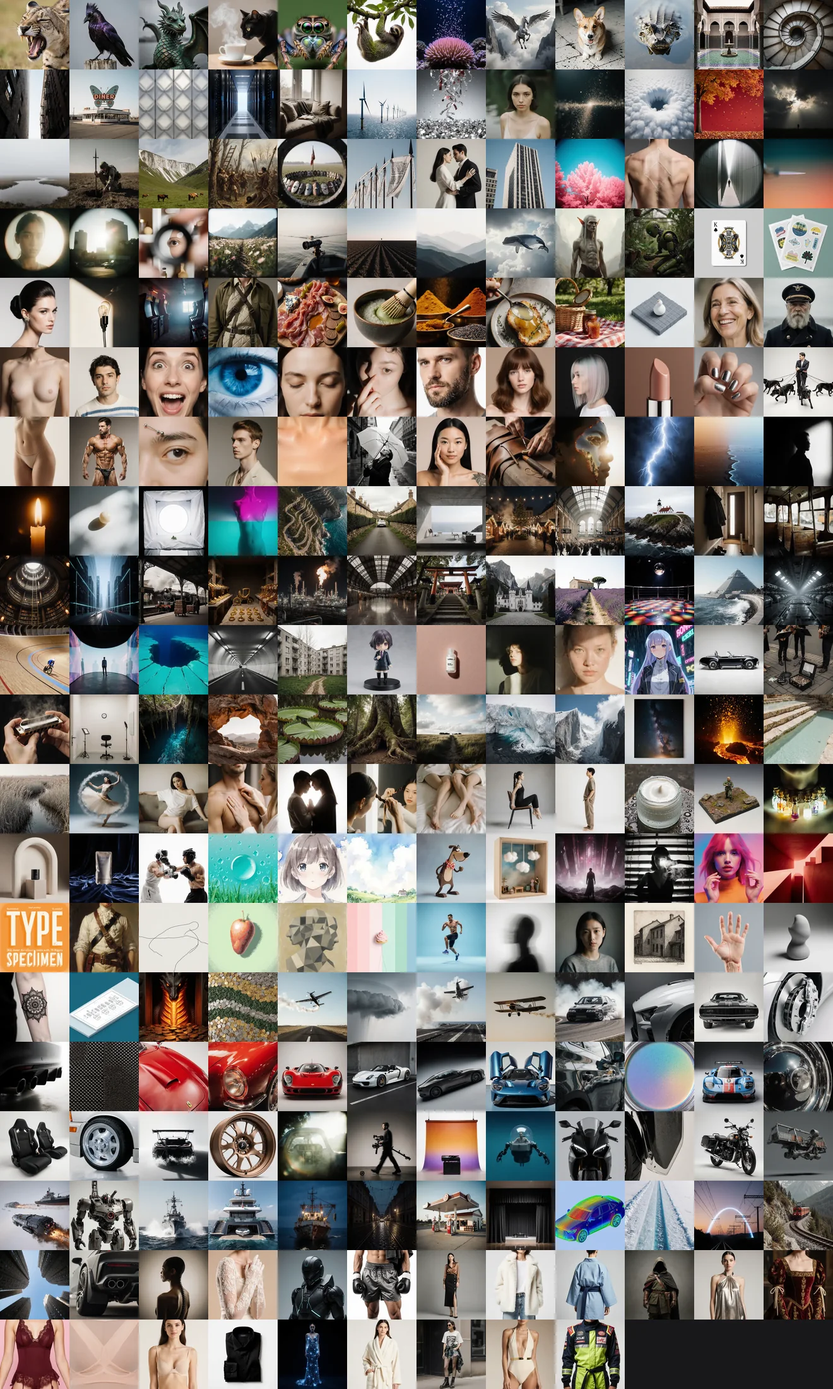
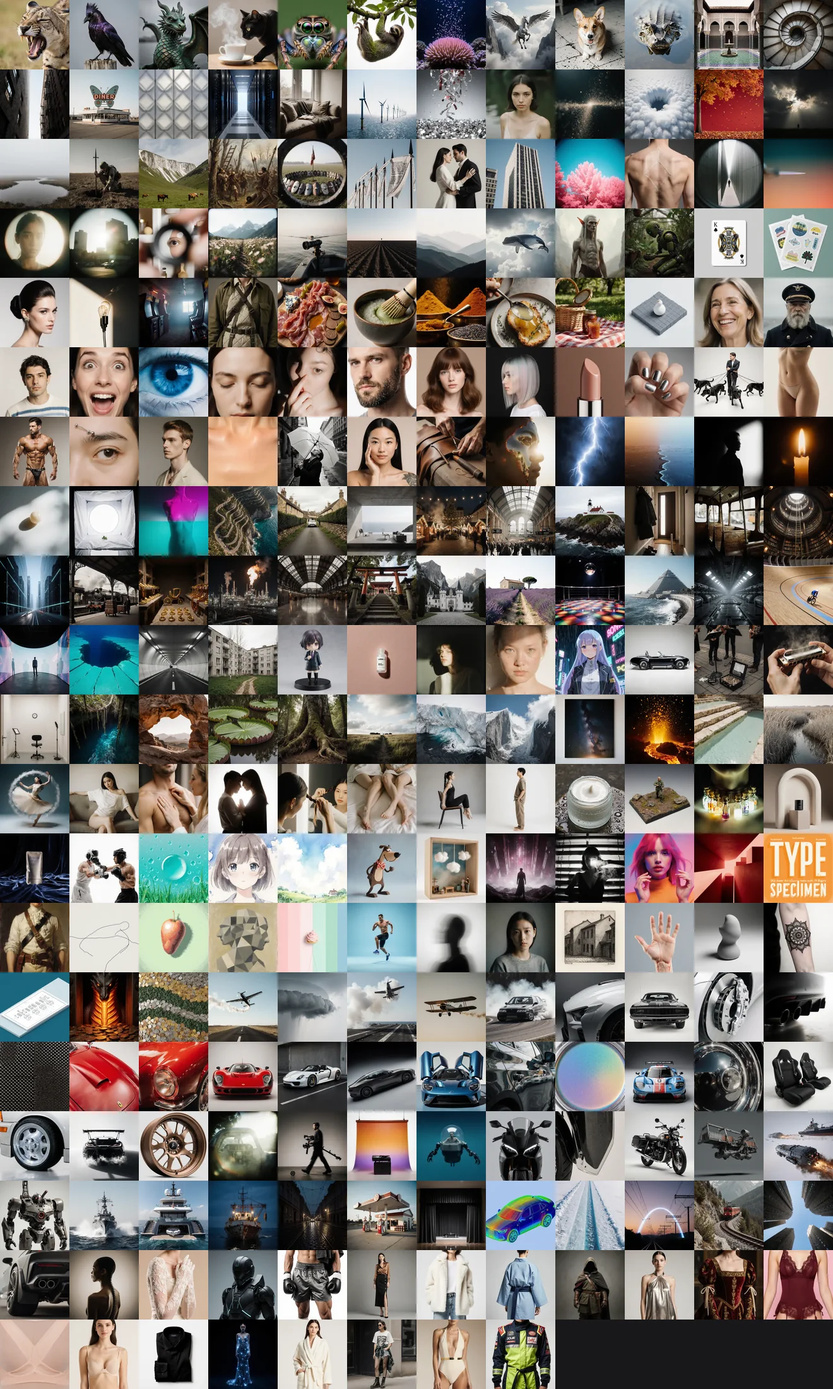
Keep human/bust out of the README's contact sheet
The library is unchanged — the section ships, templates draw from it, and the
curation sheet in _harness still shows it, because leaving a tile out of a
review sheet defeats the sheet. Only the copy embedded in a public README omits
it, which is a different audience on a different site.

contact_sheet.py grew --exclude for it, and prints what it left out: a sheet
that silently shrinks is a sheet that quietly stops matching the count printed
beside it. The table still reports 237 sections and 3465 items, because that is
what ships; the alt text no longer claims the sheet shows all of them.

diff --git a/README.md b/README.md
@@ -159,7 +159,7 @@ Sections are the pools templates draw from, and every shipped one carries a thum
 <tr><th>The shipped set</th><th>Folder</th><th>Sections</th><th>Items</th><th>What it covers</th></tr>
 </thead>
 <tbody>
-<tr><td rowspan="26" valign="top"><img src="docs/images/library-sections.webp" width="360" alt="Contact sheet: the rendered thumbnail of all 237 shipped sections"></td><td valign="top"><strong><code>animal/</code></strong></td><td valign="top">10<br><sub>behavior · bird · dragon · hearthside · insect-macro · +5 more</sub></td><td valign="top">189</td><td valign="top">Species and behaviour: mammals, birds, reptiles, insects at macro, marine life, dragons and mythical creatures, pets, and what the animal is doing</td></tr>
+<tr><td rowspan="26" valign="top"><img src="docs/images/library-sections.webp" width="360" alt="Contact sheet: the rendered thumbnails of the shipped sections"></td><td valign="top"><strong><code>animal/</code></strong></td><td valign="top">10<br><sub>behavior · bird · dragon · hearthside · insect-macro · +5 more</sub></td><td valign="top">189</td><td valign="top">Species and behaviour: mammals, birds, reptiles, insects at macro, marine life, dragons and mythical creatures, pets, and what the animal is doing</td></tr>
 <tr><td valign="top"><strong><code>architecture/</code></strong></td><td valign="top">8<br><sub>building · detail · ensemble · era · facade · +3 more</sub></td><td valign="top">129</td><td valign="top">Buildings and their parts — facade, detail, ensemble, interior, era and structure — plus the snug interiors that carry a mood rather than a form</td></tr>
 <tr><td valign="top"><strong><code>atmosphere/</code></strong></td><td valign="top">7<br><sub>battle-debris · mood · particles · reentry · season · +2 more</sub></td><td valign="top">84</td><td valign="top">The air in the shot: weather, season, time of day, particles, mood, and battle debris or re-entry for the dramatic end of the range</td></tr>
 <tr><td valign="top"><strong><code>battle/</code></strong></td><td valign="top">5<br><sub>focal · ground · host · moment · standard</sub></td><td valign="top">55</td><td valign="top">The elements of a battle scene — the host, the ground, the standard, the focal figure and the decisive moment</td></tr>
